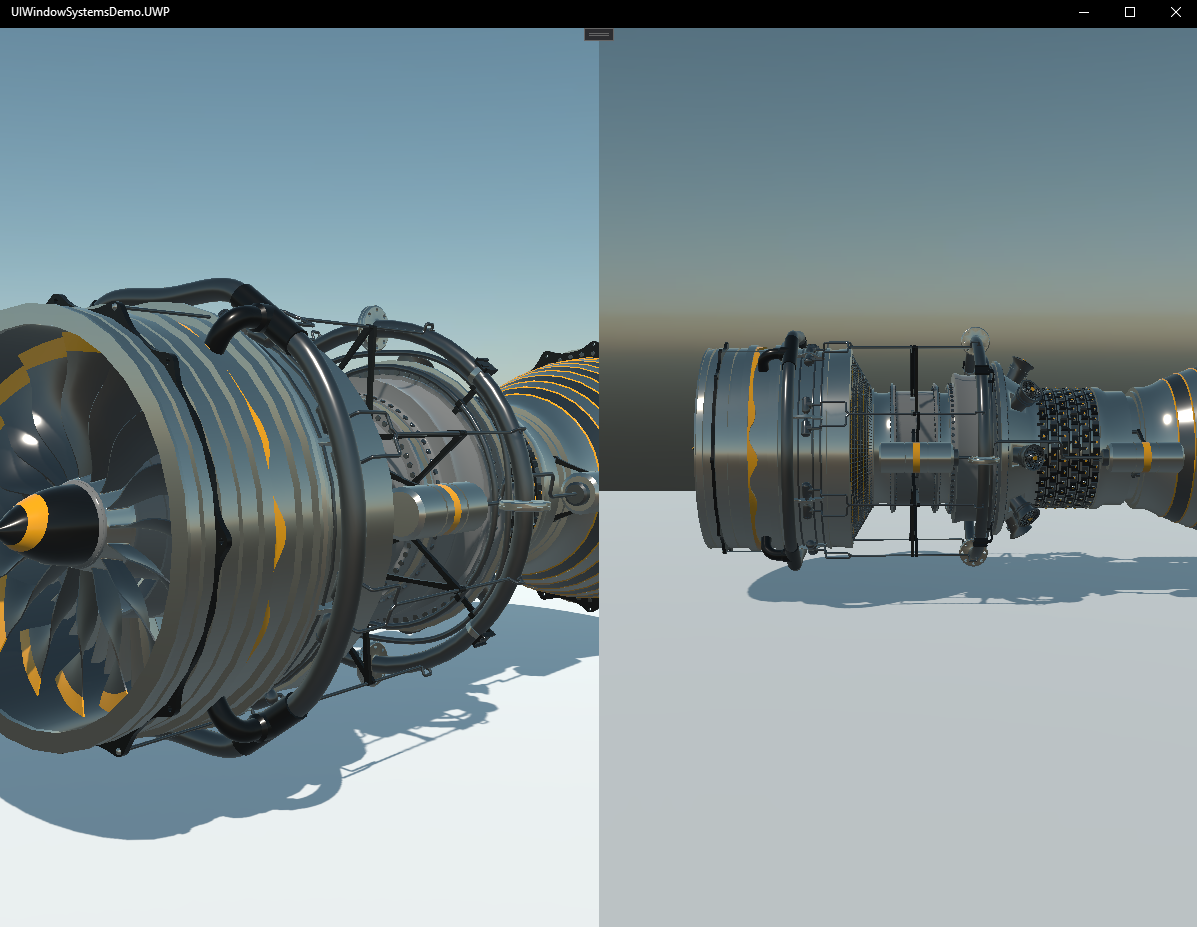
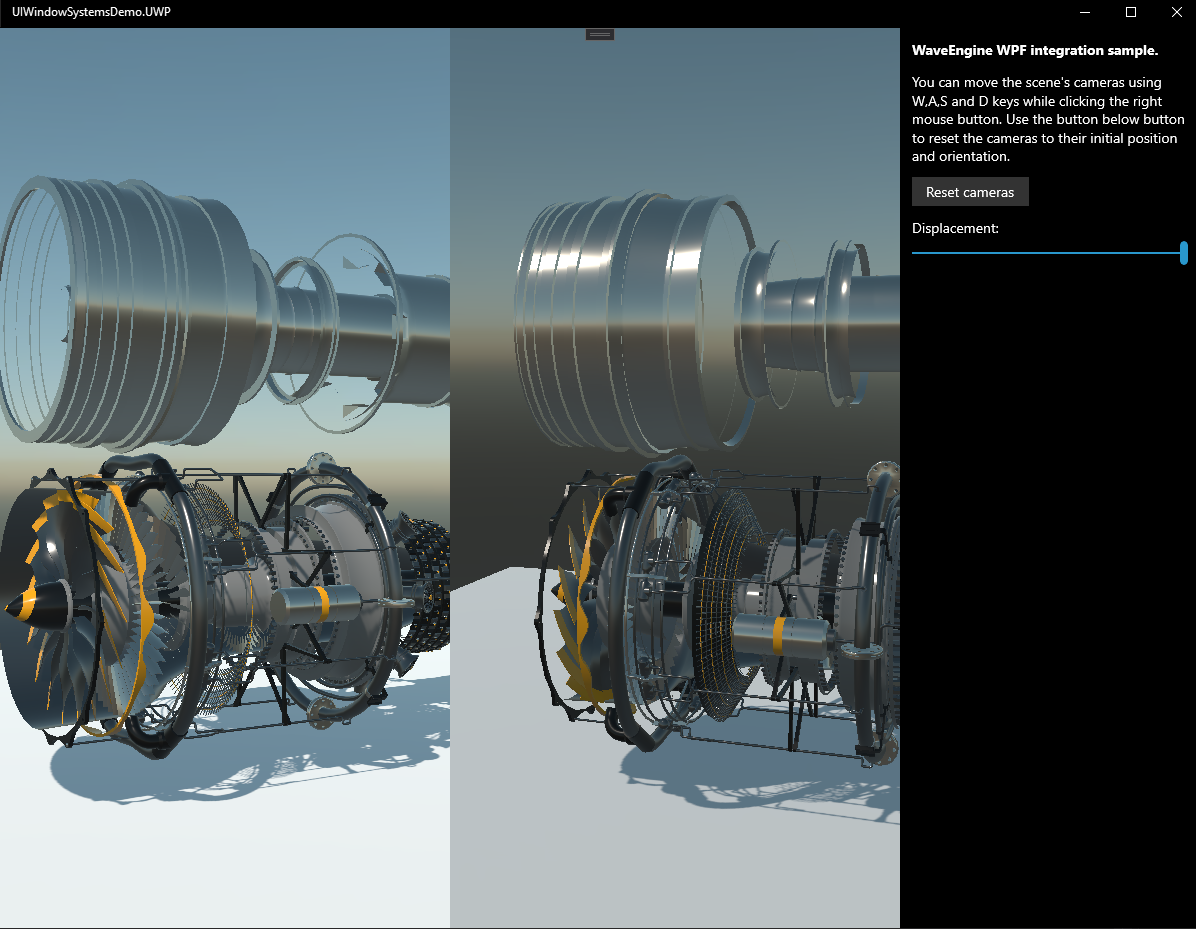
Improved UWP sample

diff --git a/UIWindowSystemsDemo.UWP/MainPage.xaml b/UIWindowSystemsDemo.UWP/MainPage.xaml
@@ -9,8 +9,29 @@
         <Grid.ColumnDefinitions>
             <ColumnDefinition/>
             <ColumnDefinition/>
+            <ColumnDefinition MaxWidth="300"/>
         </Grid.ColumnDefinitions>
         <SwapChainPanel x:Name="SwapChainPanel" Grid.Column="0"/>
         <SwapChainPanel x:Name="SwapChainPanel2" Grid.Column="1" />
+        <StackPanel Grid.Column="2" Margin="12">
+            <TextBlock
+                Margin="0,0,0,12"
+                FontWeight="Bold"
+                Text="WaveEngine WPF integration sample." />
+            <TextBlock Text="You can move the scene's cameras using W,A,S and D keys while clicking the right mouse button. Use the button below button to reset the cameras to their initial position and orientation." TextWrapping="Wrap" />
+            <Button
+                Margin="0,12"
+                Padding="12,3"
+                HorizontalAlignment="Left"
+                Click="ResetCameraClick"
+                Content="Reset cameras" />
+            <TextBlock Text="Displacement:" />
+            <Slider
+                ToolTipService.Placement="Bottom"
+                StepFrequency="1"
+                Maximum="10"
+                Minimum="0"
+                ValueChanged="DisplacementChanged" />
+        </StackPanel>
     </Grid>
 </Page>

diff --git a/UIWindowSystemsDemo.UWP/MainPage.xaml.cs b/UIWindowSystemsDemo.UWP/MainPage.xaml.cs
@@ -11,6 +11,8 @@ namespace UIWindowSystemsDemo.UWP
 {
     public sealed partial class MainPage : Page
     {
+        private InteractionService interactionService;
+
         public MainPage()
         {
             InitializeComponent();
@@ -25,6 +27,10 @@ namespace UIWindowSystemsDemo.UWP
             // Create Services
             UWPWindowsSystem windowsSystem = new UWPWindowsSystem();
             application.Container.RegisterInstance(windowsSystem);
+            
+            interactionService = new InteractionService();
+            application.Container.RegisterInstance(interactionService);
+
             var surface = (UWPSurface)windowsSystem.CreateSurface(SwapChainPanel);
             var surface2 = (UWPSurface)windowsSystem.CreateSurface(SwapChainPanel2);
 
@@ -93,6 +99,16 @@ namespace UIWindowSystemsDemo.UWP
             swapChain.VerticalSync = true;
 
             return swapChain;
+        }
+
+        private void DisplacementChanged(object sender, Windows.UI.Xaml.Controls.Primitives.RangeBaseValueChangedEventArgs e)
+        {
+            interactionService.Displacement = (float)e.NewValue;
+        }
+
+        private void ResetCameraClick(object sender, Windows.UI.Xaml.RoutedEventArgs e)
+        {
+            interactionService.ResetCamera();
         }
     }
 }
